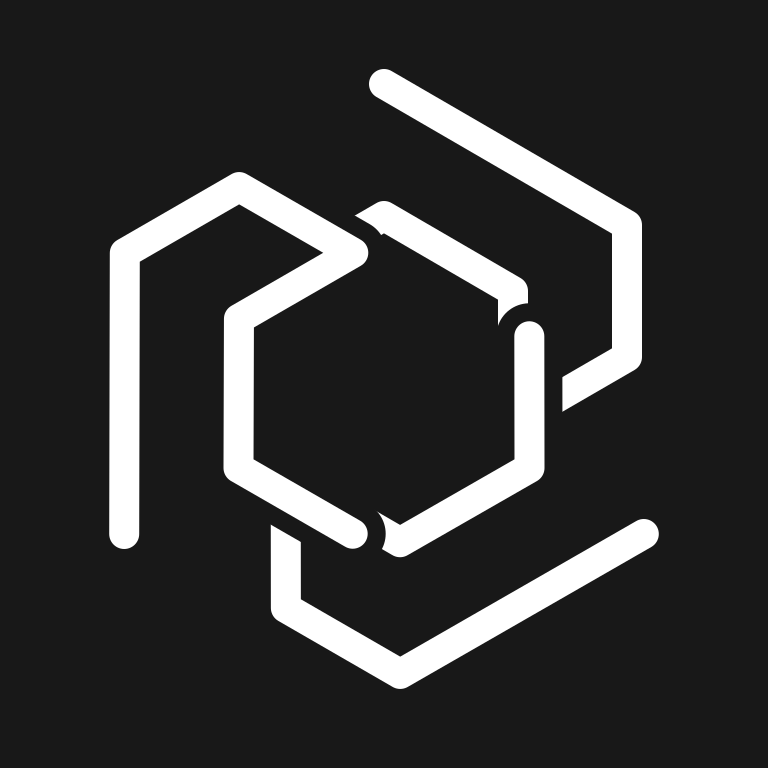
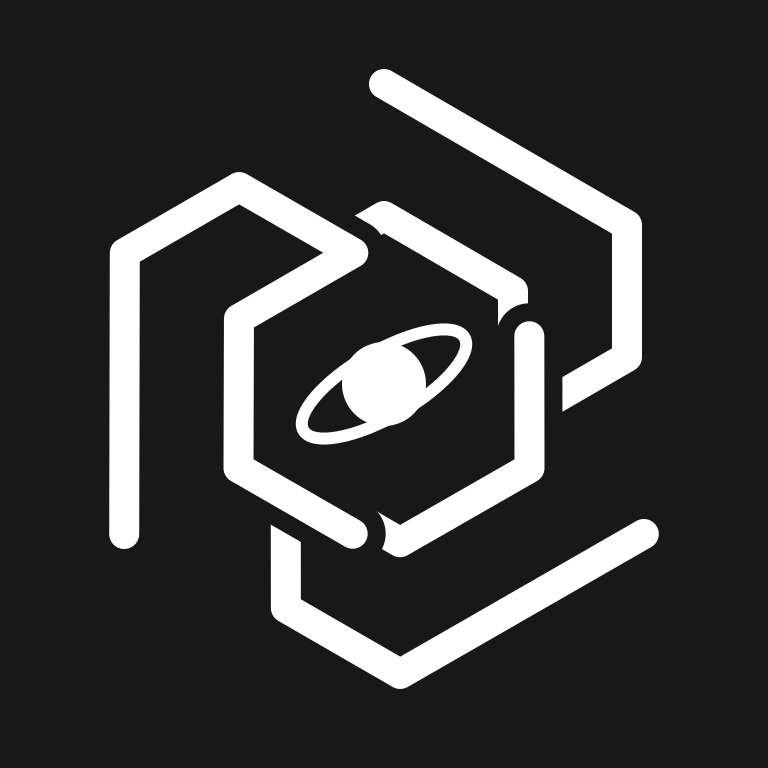
feat: add orbital core to PramudyaSpaces identity

Changed region(s): [[0.375, 0.4062, 0.625, 0.5938]]

diff --git a/src/lib/hero-atmosphere.ts b/src/lib/hero-atmosphere.ts
@@ -1,7 +1,7 @@
 import {sceneTheme,sceneAlpha} from './visual-theme';
 import * as THREE from 'three';
 import {heroSceneConfig} from './hero-scene';
-import {rpaMarkPaths} from './rpa-mark';
+import {rpaMarkPaths,rpaOrbit} from './rpa-mark';
 /** Small deterministic particle cloud. Kept CPU-testable and bounded. */
 export function heroParticles(count:number=heroSceneConfig.particleCount){
  const positions=new Float32Array(Math.max(0,Math.min(40,Math.floor(count)))*3);
@@ -19,7 +19,7 @@ export function createHeroAtmosphere(floorY:number){
  function texture(draw:(ctx:CanvasRenderingContext2D)=>void){const surface=document.createElement('canvas');surface.width=512;surface.height=256;const ctx=surface.getContext('2d');if(ctx)draw(ctx);const map=new THREE.CanvasTexture(surface);map.colorSpace=THREE.SRGBColorSpace;textures.push(map);return map;}
  const shadow=texture(ctx=>{ctx.translate(256,128);ctx.scale(2,1);const gradient=ctx.createRadialGradient(0,0,4,0,0,128);gradient.addColorStop(0,sceneAlpha(sceneTheme.black,.8));gradient.addColorStop(.5,sceneAlpha(sceneTheme.black,.36));gradient.addColorStop(1,sceneAlpha(sceneTheme.black,0));ctx.fillStyle=gradient;ctx.fillRect(-128,-128,256,256);});
  // A softly blurred floor projection avoids an extra reflective render pass on every frame.
- const reflection=texture(ctx=>{ctx.filter='blur(9px)';ctx.strokeStyle=sceneTheme.gray5;ctx.lineWidth=10;ctx.lineCap='round';ctx.lineJoin='round';ctx.translate(256,128);ctx.scale(1.2,-.75);ctx.translate(-128,-128);for(const points of rpaMarkPaths){ctx.beginPath();points.forEach(([x,y],i)=>i?ctx.lineTo(x,y):ctx.moveTo(x,y));ctx.stroke();}});
+ const reflection=texture(ctx=>{ctx.filter='blur(9px)';ctx.strokeStyle=sceneTheme.gray5;ctx.fillStyle=sceneTheme.gray5;ctx.lineWidth=10;ctx.lineCap='round';ctx.lineJoin='round';ctx.translate(256,128);ctx.scale(1.2,-.75);ctx.translate(-128,-128);for(const points of rpaMarkPaths){ctx.beginPath();points.forEach(([x,y],i)=>i?ctx.lineTo(x,y):ctx.moveTo(x,y));ctx.stroke();}ctx.beginPath();ctx.arc(128,128,rpaOrbit.planetRadius,0,Math.PI*2);ctx.fill();ctx.translate(128,128);ctx.rotate(-rpaOrbit.tiltDegrees*Math.PI/180);ctx.lineWidth=rpaOrbit.strokeWidth;ctx.beginPath();ctx.ellipse(0,0,rpaOrbit.radius,rpaOrbit.minorRadius,0,0,Math.PI*2);ctx.stroke();});
  function floor(map:THREE.Texture,width:number,depth:number,z:number,opacity:number){const mesh=new THREE.Mesh(new THREE.PlaneGeometry(width,depth),new THREE.MeshBasicMaterial({map,transparent:true,opacity,depthWrite:false,side:THREE.DoubleSide}));mesh.rotation.x=-Math.PI/2;mesh.position.set(0,floorY,z);group.add(mesh);return mesh;}
  floor(shadow,5.8,2.1,0,.75);floor(reflection,3.9,2.8,1.65,.15).position.y+=.004;
  return {group,update(elapsed:number,active:boolean){if(!active)return;particles.rotation.y=Math.sin(elapsed*.065)*.12;props.children.forEach((prop,index)=>{prop.rotation.y=elapsed*.08+index*.7;prop.position.y=(index===1?-.8:1.25)+Math.sin(elapsed*.45+index)*.08;});},disposeTextures(){textures.forEach(value=>value.dispose());}};

diff --git a/src/lib/sculpture-model.ts b/src/lib/sculpture-model.ts
@@ -1,6 +1,6 @@
 import {sceneTheme} from './visual-theme';
 import * as THREE from 'three';
-import {rpaMarkPaths} from './rpa-mark';
+import {rpaMarkPaths,rpaOrbit} from './rpa-mark';
 /** Procedural, testable assets with no DOM, downloads or renderer dependency. */
 export function sculptureModel(variant:'hero'|'contact',segments=160,monogram='RP'){
  const chrome=new THREE.MeshPhysicalMaterial({color:sceneTheme.gray5,metalness:1,roughness:.19,clearcoat:1,clearcoatRoughness:.14,envMapIntensity:2.2});
@@ -21,6 +21,10 @@ export function sculptureModel(variant:'hero'|'contact',segments=160,monogram='R
    const strand=mesh(new THREE.TubeGeometry(curve,Math.max(96,segments),.09,10,false),chrome,mark);strand.name=`rpa-route-${index}`;
    for(const point of [points[0],points.at(-1)!]){const terminal=mesh(new THREE.SphereGeometry(.09,12,8),chrome,mark);terminal.position.copy(point);}
   });
+  const core=new THREE.Group();core.name='rpa-orbital-core';mark.add(core);
+  const planet=mesh(new THREE.SphereGeometry(rpaOrbit.planetRadius/55,32,20),chrome,core);planet.name='rpa-planet';
+  const orbitalPlane=new THREE.Group();orbitalPlane.rotation.z=rpaOrbit.tiltDegrees*Math.PI/180;core.add(orbitalPlane);
+  const orbit=mesh(new THREE.TorusGeometry(rpaOrbit.radius/55,rpaOrbit.strokeWidth/110,8,96),chrome,orbitalPlane);orbit.name='rpa-orbit';orbit.rotation.x=Math.acos(rpaOrbit.minorRadius/rpaOrbit.radius);
  }else{
   const paper=new THREE.MeshStandardMaterial({color:sceneTheme.gray5,metalness:.35,roughness:.35,envMapIntensity:1.4});const dark=new THREE.MeshStandardMaterial({color:sceneTheme.gray3,metalness:.5,roughness:.4});
   // A folded envelope and raised letter. Geometry is shallowly extruded, not a flat illustration.

diff --git a/tests/rpa-mark.test.ts b/tests/rpa-mark.test.ts
@@ -1,7 +1,7 @@
 import test from 'node:test';
 import assert from 'node:assert/strict';
 import {readFileSync} from 'node:fs';
-import {rpaMarkPaths,rpaMarkPathData} from '../src/lib/rpa-mark';
+import {rpaMarkPaths,rpaMarkPathData,rpaOrbit} from '../src/lib/rpa-mark';
 test('downloadable logo and static hero use the same three routes as the 3D geometry',()=>{
  const svg=readFileSync(new URL('../public/brand/rpa-symbol.svg',import.meta.url),'utf8');
  const visiblePaths=[...svg.matchAll(/<path d="([^"]+)" mask=/g)].map(match=>match[1]);
@@ -9,4 +9,7 @@ test('downloadable logo and static hero use the same three routes as the 3D geom
  assert.equal(rpaMarkPaths.length,3);
  for(const points of rpaMarkPaths)for(const [x,y] of points){assert.ok(x>10&&x<246);assert.ok(y>10&&y<246);}
  assert.ok(!svg.includes('<text'));assert.ok(!svg.includes('<image'));
+ assert.ok(svg.includes(`r="${rpaOrbit.planetRadius}"`));
+ assert.ok(svg.includes(`rx="${rpaOrbit.radius}" ry="${rpaOrbit.minorRadius}"`));
+ assert.ok(svg.includes(`rotate(-${rpaOrbit.tiltDegrees} 128 128)`));
 });

diff --git a/tests/sculpture-model.test.ts b/tests/sculpture-model.test.ts
@@ -13,6 +13,8 @@ for(const variant of ['hero','contact'] as const)test(`${variant} 3D asset has f
 
 test('opening uses the custom three-route RPA symbol, with owner metadata and no text geometry',()=>{
  const model=sculptureModel('hero',96,'DP');const mark=model.getObjectByName('rpa-linear-symbol');assert.ok(mark instanceof THREE.Group);assert.equal(mark.userData.ownerInitials,'DP');assert.equal(mark.children.filter(child=>child instanceof THREE.Mesh&&child.geometry.type==='TubeGeometry').length,3);model.traverse(child=>{if(child instanceof THREE.Mesh)assert.notEqual(child.geometry.type,'TextGeometry');});
+ assert.ok(mark.getObjectByName('rpa-planet') instanceof THREE.Mesh);
+ assert.ok(mark.getObjectByName('rpa-orbit') instanceof THREE.Mesh);
  model.traverse(object=>{if(object instanceof THREE.Mesh){object.geometry.dispose();const materials=Array.isArray(object.material)?object.material:[object.material];materials.forEach(material=>material.dispose());}});
 });
 

diff --git a/src/lib/rpa-mark.ts b/src/lib/rpa-mark.ts
@@ -1,4 +1,5 @@
-/** Three routed paths around one open core. Coordinates also define the standalone SVG. */
+/** Three routed paths around an orbital core. Coordinates also define the standalone SVG. */
+export const rpaOrbit={radius:31,minorRadius:11,planetRadius:14,strokeWidth:4,tiltDegrees:30} as const;
 const route:readonly (readonly [number,number])[]=[[128,28],[209,75],[209,119],[171,141],[171,97],[128,72],[90,94]];
 export const rpaMarkPaths=Array.from({length:3},(_,index)=>{
  const angle=index*Math.PI*2/3;
